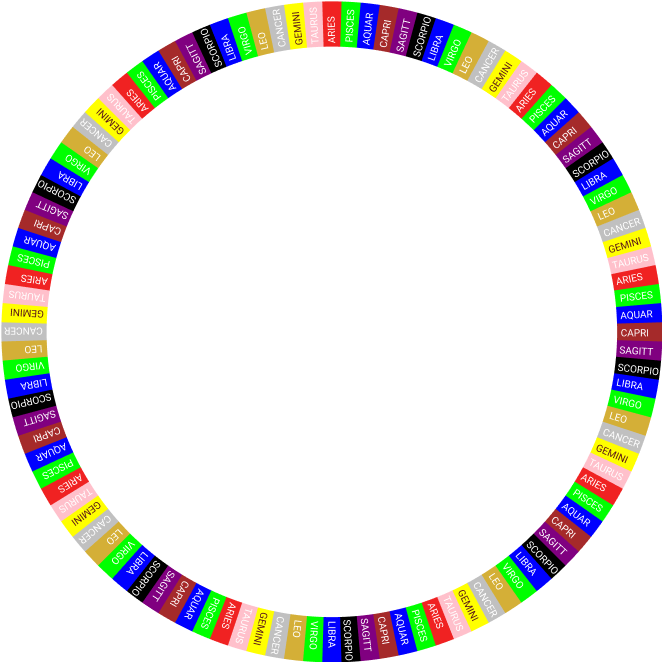
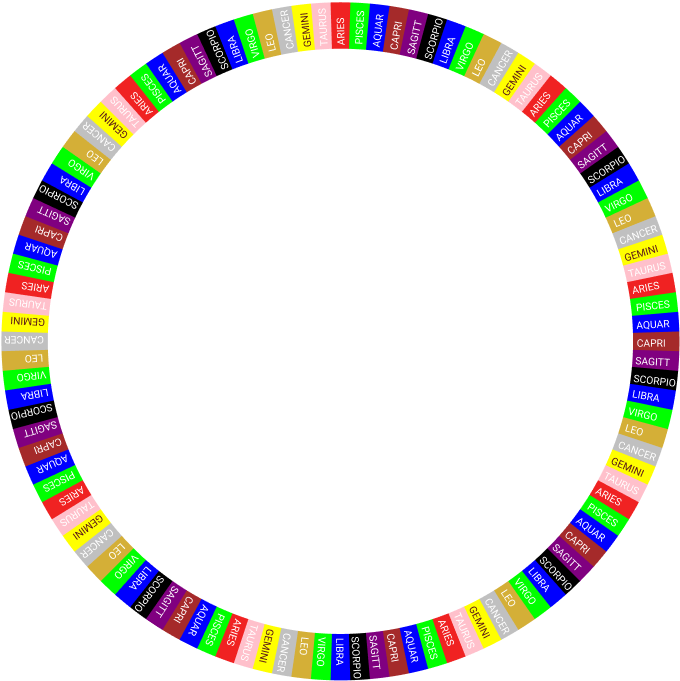
Navamsha updated

Changed region(s): [[0.0, 0.0, 1.0, 1.0]]

diff --git a/src/components.js b/src/components.js
@@ -29,10 +29,10 @@ var SIZES = {
   zodiac_height: "582px",
   zodiac_x: "59px",
   zodiac_y: "59px",
-  navamsha_width: "662px",
-  navamsha_height: "662px",
-  navamsha_x: "19px",
-  navamsha_y: "19px",  
+  navamsha_width: "680px",
+  navamsha_height: "680px",
+  navamsha_x: "10px",
+  navamsha_y: "10px",  
   planet_width: "100px",
   planet_height: "100px",
   planet_x: "300px", // (space_width - planet_width)/2 
@@ -71,7 +71,8 @@ class Chart extends React.Component {
       planetTableFragOpen: true,    
       vedicChartFragOpen: true,
       sideralOffset: 24, 
-      enableNavamsha: false,     
+      enableNavamsha: false,
+      enablePlanetLabel: true,     
     };
     this.handlerHouseDetail = this.handlerHouseDetail.bind(this);
     this.handlerBirthLagna = this.handlerBirthLagna.bind(this);
@@ -121,7 +122,8 @@ class Chart extends React.Component {
   }
   
   handlerZodiacOtions() {
-    this.setState({enableNavamsha: !this.state.enableNavamsha});
+    let isVisible = !this.state.enableNavamsha;
+    this.setState({enableNavamsha: isVisible, enablePlanetLabel: !isVisible});
   }
 
   handlerBirthLagna(date, _planetData) {
@@ -217,22 +219,22 @@ class Chart extends React.Component {
     </FragContainer>
   */
     return (
-      <div className="container-main" onClick= {this.handlerZodiacOtions}>
-          <OverlapGroupChart>
+      <div className="container-main">
+          <OverlapGroupChart onClick= {this.handlerZodiacOtions}>
             <Space angle={-this.state.planetData[0] + 90 }>
               <Zodiac angle={this.state.sideralOffset} style={{ backgroundImage: `url(${zodiac})` }}></Zodiac>
               {this.state.enableNavamsha ? <Navamsha angle={this.state.sideralOffset} style={{ backgroundImage: `url(${navamsha})` }}></Navamsha> : <div />}
               <Planets>
                 <OverlapGroup13>
-                  <Sun name="Sun" angle={-this.state.planetData[1]} offset={planetOffsets[1]}/>
-                  <Moon name="Moon" angle={-this.state.planetData[2]}  offset={planetOffsets[2]} />
-                  <Mercury name="Merc" angle={-this.state.planetData[3]}  offset={planetOffsets[3]}/>
-                  <Venus name="Venus" angle={-this.state.planetData[4]}  offset={planetOffsets[4]}/>
-                  <Mars name="Mars" angle={-this.state.planetData[5]} offset={planetOffsets[5]}/>
-                  <Jupiter name="Jup" angle={-this.state.planetData[6]} offset={planetOffsets[6]}/>
-                  <Saturn name="Sat" angle={-this.state.planetData[7]} offset={planetOffsets[7]}/>
-                  <Rahu name="A.Ndde" angle={-this.state.planetData[8]} offset={planetOffsets[8]}/>
-                  <Ketu name="D.Node" angle={-this.state.planetData[9]} offset={planetOffsets[9]}/>
+                  <Sun name={this.state.enablePlanetLabel ? "Sun": ""} angle={-this.state.planetData[1]} offset={planetOffsets[1]} enableLabel={this.state.enablePlanetLabel}/>
+                  <Moon name={this.state.enablePlanetLabel ? "Moon": ""} angle={-this.state.planetData[2]}  offset={planetOffsets[2]} />
+                  <Mercury name={this.state.enablePlanetLabel ? "Merc": ""} angle={-this.state.planetData[3]}  offset={planetOffsets[3]}/>
+                  <Venus name={this.state.enablePlanetLabel ? "Venus" : ""} angle={-this.state.planetData[4]}  offset={planetOffsets[4]}/>
+                  <Mars name={this.state.enablePlanetLabel ? "Mars": ""} angle={-this.state.planetData[5]} offset={planetOffsets[5]}/>
+                  <Jupiter name={this.state.enablePlanetLabel ? "Jup": ""} angle={-this.state.planetData[6]} offset={planetOffsets[6]}/>
+                  <Saturn name={this.state.enablePlanetLabel ? "Sat" : ""} angle={-this.state.planetData[7]} offset={planetOffsets[7]}/>
+                  <Rahu name={this.state.enablePlanetLabel ? "A.Ndde": ""} angle={-this.state.planetData[8]} offset={planetOffsets[8]}/>
+                  <Ketu name={this.state.enablePlanetLabel ? "D.Node": ""} angle={-this.state.planetData[9]} offset={planetOffsets[9]}/>
                 </OverlapGroup13>
               </Planets>
             </Space>
@@ -695,11 +697,11 @@ class Sun extends React.Component {
 
 class Sun2 extends React.Component {
   render() {
-    const { name } = this.props;
+    const { name, enableLabel } = this.props;
 
     return (
         <OverlapGroupPlanet>
-          <PlanetLabel>{name}</PlanetLabel>
+          {enableLabel ? <PlanetLabel>{name}</PlanetLabel> : <div />}
           <IconPlanet src="icon-sun.svg" />
         </OverlapGroupPlanet>
     );
